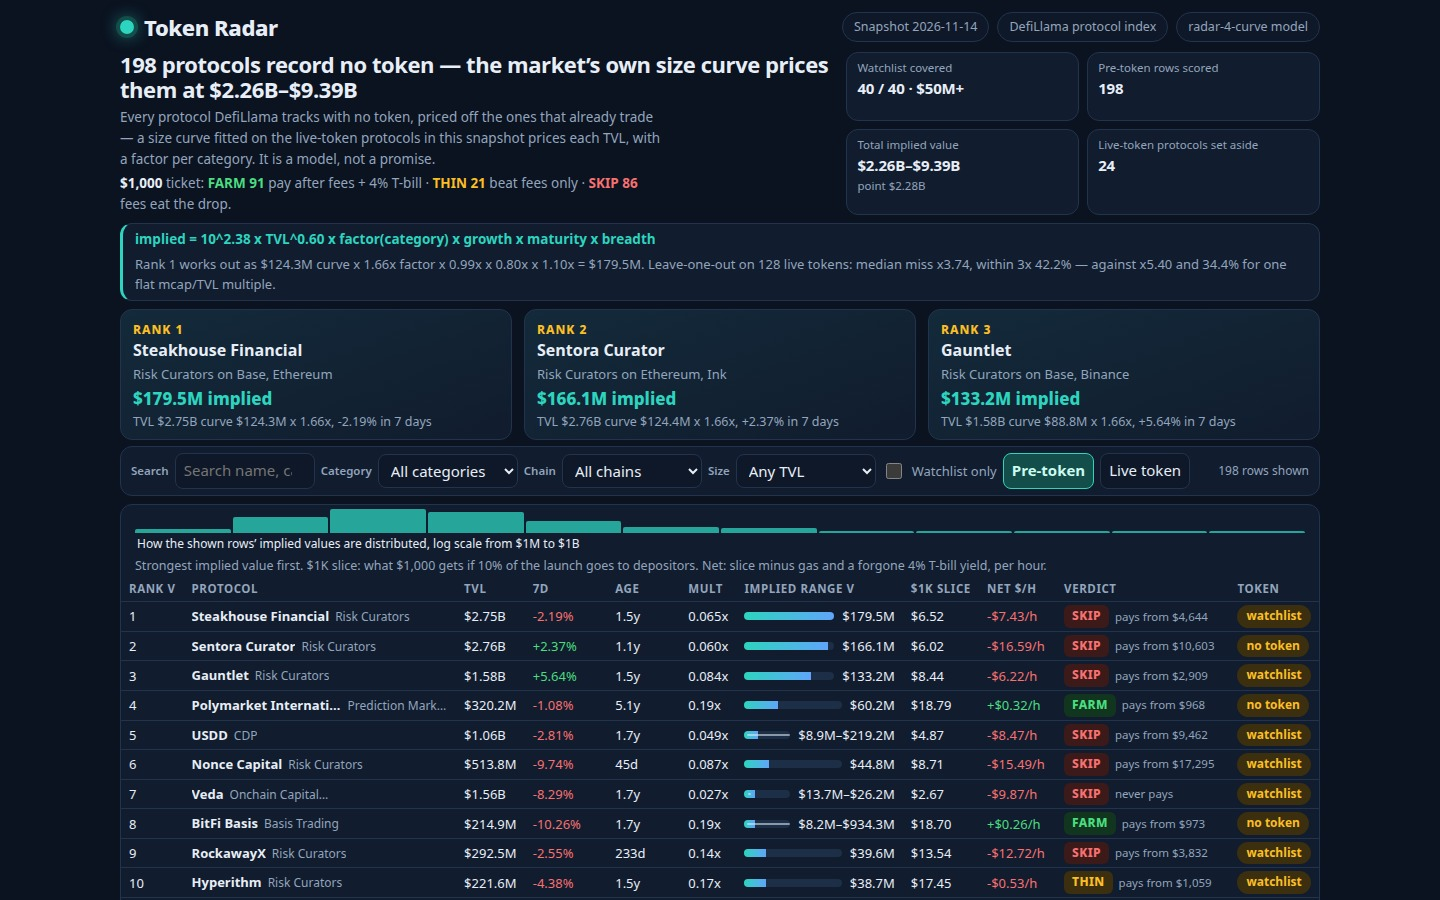
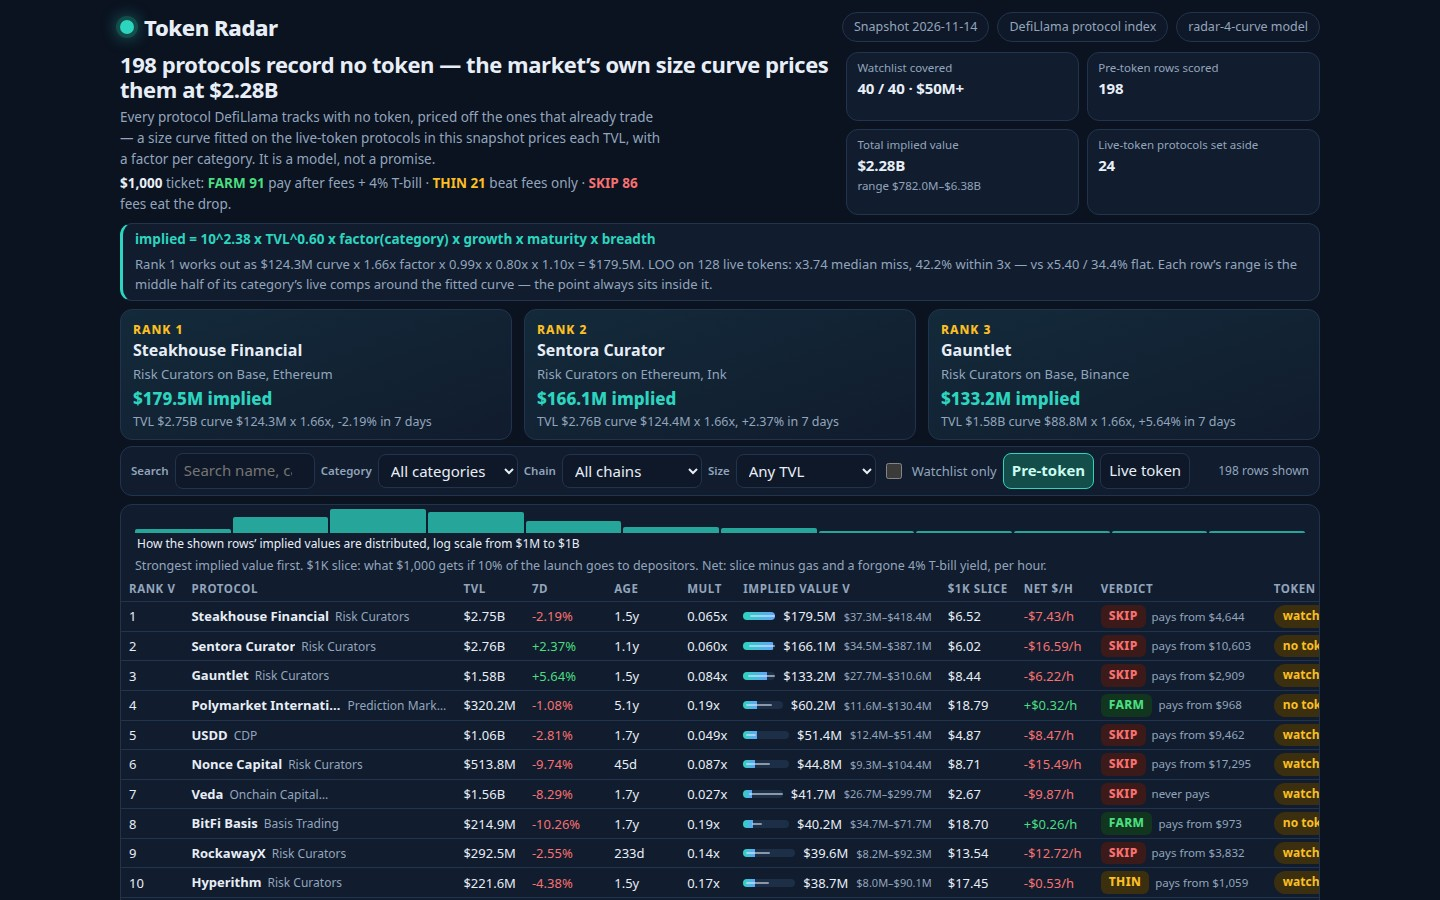
Slot 4 fix (red team REVISION REQUIRED): rebuild band as P25-P75 of category residuals off the fitted curve
- Band is now the model's own uncertainty: low/high = curve(TVL) x 10^P25/P75 x multipliers, expanded to contain the point, so containment holds by construction (was flat min-max over member ratios, a second model: 49% of points fell outside their own band)
- Thin categories use the global residual band, labelled in the detail modal; every row now has a band, including the top-3
- Headline is the point total ($2.28B) again, with the total band ($0.78B-$6.38B) as secondary text
- Board column shows the point as the main number with the band as a bar + small range text (was tooltip-only point)
- Formula bar defines the band in one line; false fmtRange comment fixed (rows are priced by the fitted curve, not the global median)
- No curve/point change: board.json sha256 unchanged 45b700ad...

diff --git a/dashboard/app.js b/dashboard/app.js
@@ -31,10 +31,11 @@
   // Implied value per dollar of TVL, computed live from the row: three
   // decimals below 0.1x so 0.065x reads as 0.065x, not 0.07x.
   function fmtRatio(n) { if (!isFinite(n)) return 'n/a'; return (n < 0.1 ? n.toFixed(3) : (Math.round(n * 100) / 100).toFixed(2)) + 'x'; }
-  // A row's implied range as one line, or its point alone when the
-  // category was too thin to set a range (fallback rows carry no
-  // low/high — the model prices them by the global median, so there is
-  // no range to show).
+  // A row's implied range as one line: the middle half of its
+  // category's live comps around the fitted curve. A category too thin
+  // to set its own band uses the whole market's spread, so every row
+  // has a range; the point alone is only a defensive fallback for
+  // data written before bands existed.
   function hasRange(r) {
     return r.implied_low_usd !== null && r.implied_low_usd !== undefined && r.implied_high_usd !== null && r.implied_high_usd !== undefined;
   }
@@ -301,14 +302,14 @@
     var tr = totalRange();
     return el('section', { class: 'lede' },
       el('div', null,
-        el('h1', { text: DATA.board_size + ' protocols record no token — the market\u2019s own size curve prices them at ' + fmtUsd(tr.low) + '–' + fmtUsd(tr.high) }),
+        el('h1', { text: DATA.board_size + ' protocols record no token — the market\u2019s own size curve prices them at ' + fmtUsd(DATA.total_implied_usd) }),
         el('p', { html: 'Every protocol DefiLlama tracks with no token, priced off the ones that already trade — a size curve fitted on the live-token protocols in this snapshot prices each TVL, with a factor per category. It is a model, not a promise.' }),
         el('p', { class: 'verdict-line', html: '<b>$1,000</b> ticket: <b class="farm">FARM ' + vc.farm + '</b> pay after fees + 4% T-bill · <b class="thin">THIN ' + vc.thin + '</b> beat fees only · <b class="skipv">SKIP ' + vc.skip + '</b> fees eat the drop.' })
       ),
       el('div', { class: 'facts' },
         el('div', { class: 'fact' }, el('span', { text: 'Watchlist covered' }), el('b', { text: DATA.watchlist_size + ' / ' + DATA.watchlist_size + ' · $' + Math.round(DATA.floor_usd / 1e6) + 'M+' })),
         el('div', { class: 'fact' }, el('span', { text: 'Pre-token rows scored' }), el('b', { text: String(DATA.board_size) })),
-        el('div', { class: 'fact' }, el('span', { text: 'Total implied value' }), el('b', { text: fmtUsd(tr.low) + '–' + fmtUsd(tr.high) }), el('span', { text: 'point ' + fmtUsd(DATA.total_implied_usd) })),
+        el('div', { class: 'fact' }, el('span', { text: 'Total implied value' }), el('b', { text: fmtUsd(DATA.total_implied_usd) }), el('span', { text: 'range ' + fmtUsd(tr.low) + '–' + fmtUsd(tr.high) })),
         el('div', { class: 'fact' }, el('span', { text: 'Live-token protocols set aside' }), el('b', { text: String(DATA.live_size) }))
       )
     );
@@ -325,13 +326,14 @@
       ? 'Rank 1 works out as ' + fmtUsd(top.curve_usd) + ' curve x ' + fmtMult(top.category_factor) + ' factor x ' + fmtMult(top.growth_multiplier) + ' x ' + fmtMult(top.maturity_multiplier) + ' x ' + fmtMult(top.breadth_multiplier) + ' = ' + fmtUsd(top.implied_value_usd) + '.'
       : '';
     var check = v
-      ? 'Leave-one-out on ' + v.fitted.n + ' live tokens: median miss x' + v.fitted.median_miss.toFixed(2) + ', within 3x ' + Math.round(v.fitted.within_3x * 1000) / 10 + '% — against x' + v.flat.median_miss.toFixed(2) + ' and ' + Math.round(v.flat.within_3x * 1000) / 10 + '% for one flat mcap/TVL multiple.'
+      ? 'LOO on ' + v.fitted.n + ' live tokens: x' + v.fitted.median_miss.toFixed(2) + ' median miss, ' + Math.round(v.fitted.within_3x * 1000) / 10 + '% within 3x — vs x' + v.flat.median_miss.toFixed(2) + ' / ' + Math.round(v.flat.within_3x * 1000) / 10 + '% flat.'
       : '';
+    var bandDef = 'Each row\u2019s range is the middle half of its category\u2019s live comps around the fitted curve — the point always sits inside it.';
     return el('section', { class: 'formula-bar', 'aria-label': 'How implied value is computed' },
       el('div', { class: 'formula-line' },
         el('b', { text: 'implied = 10^' + sc.intercept.toFixed(2) + ' x TVL^' + sc.slope.toFixed(2) + ' x factor(category) x growth x maturity x breadth' })
       ),
-      el('p', { text: example + ' ' + check })
+      el('p', { text: example + ' ' + check + ' ' + bandDef })
     );
   }
 
@@ -343,7 +345,7 @@
           el('span', { class: 'rank', text: 'Rank ' + r.rank }),
           el('h3', { text: r.name }),
           el('span', { class: 'sub', text: (r.category || 'Other') + ' on ' + (r.chains && r.chains.length ? r.chains.slice(0, 2).join(', ') : 'an unnamed chain') }),
-          el('div', { class: 'val', text: fmtRange(r) + ' implied' }),
+          el('div', { class: 'val', text: fmtUsd(r.implied_value_usd) + ' implied' }),
           el('span', { class: 'why', text: 'TVL ' + fmtUsd(r.tvl_usd) + ' curve ' + fmtUsd(r.curve_usd) + ' x ' + fmtMult(r.category_factor) + ', ' + fmtPct(r.change_7d) + ' in 7 days' })
         );
       })
@@ -466,7 +468,8 @@
         el('td', { class: 'num', title: 'Flat baseline ' + fmtMult(r.comp_multiple) + (r.comp_used_global ? ' (global median)' : ' (category median)') }, el('span', { text: fmtRatio(r.tvl_usd ? r.implied_value_usd / r.tvl_usd : 0) })),
         el('td', null, el('div', { class: 'implied' },
           el('div', { class: 'bar', 'aria-hidden': 'true' }, el('i', { style: 'width:' + Math.max(3, Math.round((r.implied_value_usd / max) * 100)) + '%' }), range),
-          el('span', { class: 'num rng-val', title: hasRange(r) ? 'Point ' + fmtUsd(r.implied_value_usd) : 'Point value — no range: category too thin', text: fmtRange(r) })
+          el('span', { class: 'num', text: fmtUsd(r.implied_value_usd) }),
+          el('span', { class: 'rng-sub', title: 'Range: the middle half of the category\u2019s live comps around the fitted curve', text: fmtRange(r) })
         )),
         el('td', { class: 'num', text: fmtMoney(t.slice_usd) }),
         el('td', { class: 'num ' + (t.net_per_hour_usd >= 0 ? 'pos' : 'neg'), text: netText }),
@@ -487,7 +490,7 @@
             sortHeader('growth', '7d'),
             sortHeader('age', 'Age'),
             el('th', { scope: 'col', text: 'Mult' }),
-            sortHeader('implied', 'Implied range'),
+            sortHeader('implied', 'Implied value'),
             sortHeader('slice', '$1K slice'),
             sortHeader('net', 'Net $/h'),
             el('th', { scope: 'col', text: 'Verdict' }),
@@ -532,7 +535,7 @@
       el('div', { class: 'formula' },
         'implied = round( 10^' + sc.intercept.toFixed(4) + ' x tvl_usd^' + sc.slope.toFixed(4) + ' x factor(category) x (1 + clamp(change_7d, ' + m.growth_floor + ', ' + m.growth_cap + ') / 100 x ' + m.growth_weight + ') x (' + m.maturity_floor + ' + min(age_days, ' + m.maturity_days + ') / ' + m.maturity_days + ' x ' + m.maturity_range + ') x breadth )'
       ),
-      el('p', { class: 'sub', text: 'The size curve is fitted on the ' + sc.live_count + ' live-token protocols in this snapshot by ordinary least squares on log market cap against log TVL (ratios winsorised to 0.01–5). factor(category) is the category\'s median residual off the curve, shrunk toward 1 by n/(n+3) when the category has few live comps; a category with no live-token protocol is priced by the curve alone. Age is the time since the protocol was first listed, the best record of how long it has run with no token; an unlisted age uses ' + m.unknown_age_days + ' days. Breadth adds 2% per extra chain, at most 10%. The flat category median (' + fmtMult(DATA.global_comp) + ' global) is the baseline the curve beat, not the price: leave-one-out on the same ' + v.fitted.n + ' live tokens gives the curve a median miss of x' + v.fitted.median_miss.toFixed(2) + ' with ' + Math.round(v.fitted.within_3x * 1000) / 10 + '% within 3x, against x' + v.flat.median_miss.toFixed(2) + ' and ' + Math.round(v.flat.within_3x * 1000) / 10 + '% for the flat multiple.' })
+      el('p', { class: 'sub', text: 'The size curve is fitted on the ' + sc.live_count + ' live-token protocols in this snapshot by ordinary least squares on log market cap against log TVL (ratios winsorised to 0.01–5). factor(category) is the category\'s median residual off the curve, shrunk toward 1 by n/(n+3) when the category has few live comps; a category with no live-token protocol is priced by the curve alone. Each row also carries a range: the middle half of its category\'s live comps around the fitted curve (25th–75th percentile of their residuals), expanded to contain the point; a category too thin to set its own band uses the whole market\'s spread. Age is the time since the protocol was first listed, the best record of how long it has run with no token; an unlisted age uses ' + m.unknown_age_days + ' days. Breadth adds 2% per extra chain, at most 10%. The flat category median (' + fmtMult(DATA.global_comp) + ' global) is the baseline the curve beat, not the price: leave-one-out on the same ' + v.fitted.n + ' live tokens gives the curve a median miss of x' + v.fitted.median_miss.toFixed(2) + ' with ' + Math.round(v.fitted.within_3x * 1000) / 10 + '% within 3x, against x' + v.flat.median_miss.toFixed(2) + ' and ' + Math.round(v.flat.within_3x * 1000) / 10 + '% for the flat multiple.' })
     );
   }
 
@@ -591,8 +594,8 @@
       ),
       el('button', { class: 'close', type: 'button', 'aria-label': 'Close details', text: 'Close', onclick: function () { dialog.close(); } })
     ));
-    var rangeText = (row.implied_low_usd !== null && row.implied_low_usd !== undefined && row.implied_high_usd !== null && row.implied_high_usd !== undefined)
-      ? ' Range across the category\u2019s live comps: ' + fmtUsd(row.implied_low_usd) + ' \u2013 ' + fmtUsd(row.implied_high_usd) + '.'
+    var rangeText = hasRange(row)
+      ? ' Range: the middle half of the category\u2019s live comps around the fitted curve, ' + fmtUsd(row.implied_low_usd) + ' \u2013 ' + fmtUsd(row.implied_high_usd) + '.' + (row.band_used_global ? ' Too few comps in this category, so the band uses the whole market\u2019s spread.' : '')
       : '';
     dialog.appendChild(el('section', { class: 'detail-section' },
       el('h3', { text: 'Implied value' }),
@@ -606,8 +609,8 @@
         el('div', null, el('span', { text: 'Maturity multiplier' }), el('b', { class: 'num', text: fmtMult(row.maturity_multiplier) })),
         el('div', null, el('span', { text: 'Breadth multiplier' }), el('b', { class: 'num', text: fmtMult(row.breadth_multiplier) })),
         el('div', { class: 'total' }, el('span', { text: 'Implied value' }), el('div', null,
-          el('b', { class: 'num', text: fmtRange(row) }),
-          hasRange(row) ? el('span', { class: 'pt-sub', text: 'point ' + fmtUsd(row.implied_value_usd) }) : null
+          el('b', { class: 'num', text: fmtUsd(row.implied_value_usd) }),
+          el('span', { class: 'pt-sub', text: 'range ' + fmtRange(row) })
         ))
       ),
       el('p', { class: 'sub', text: 'Seven-day growth ' + fmtPct(row.change_7d) + '; age with no token ' + fmtAge(row.age_days) + '.' + rangeText }),

diff --git a/lib/model.ts b/lib/model.ts
@@ -69,7 +69,9 @@
 // that adjusted it, and the range the row spans across the middle half
 // of its category's live comps — the 25th to 75th percentile of their
 // residuals off the curve, so the point always sits inside its own
-// range. Categories with fewer than 3 live comps get a factor shrunk
+// range. Categories too thin to set their own band use the whole
+// market's spread, so every row carries a range, and the dashboard says
+// so on the row. Categories with fewer than 3 live comps get a factor shrunk
 // toward 1.00x, and the dashboard says so on the row, instead of
 // printing a bare multiple. The flat category median is kept beside the
 // curve as the baseline the curve beat, and the comps table still names
@@ -224,9 +226,11 @@ export interface RadarRow {
   listed_at: string | null;
   age_days: number | null;
   implied_value_usd: number;
-  /** The implied value at the lowest and highest live-comp ratios in the category, or null when the category median was not used. */
+  /** The row's range: the middle half of its category's live comps around the fitted curve (25th–75th percentile of their residuals), expanded to contain the point — always set, every row carries a band. */
   implied_low_usd: number | null;
   implied_high_usd: number | null;
+  /** True when the category was too thin to set its own band, so the band uses the whole market's spread. */
+  band_used_global: boolean;
   comp_multiple: number;
   comp_live_count: number;
   comp_used_global: boolean;
@@ -451,6 +455,10 @@ export interface SizeCurve {
   live_count: number;
   /** Per-category factor, from the live comps' median residual off the curve, shrunk toward 1 when few comps. */
   factors: { category: string; factor: number; live_count: number }[];
+  /** Per-category residual band: the middle half (25th–75th percentile) of the category's live comps' residuals off the curve, in log10. */
+  bands: { category: string; p25: number; p75: number; live_count: number }[];
+  /** The market-wide residual band, for categories too thin to set their own. */
+  globalBand: { p25: number; p75: number; live_count: number };
   validation: { fitted: LooScore; flat: LooScore };
 }
 
@@ -508,6 +516,38 @@ function categoryFactors(
     out.set(category, { factor: 10 ** (median(residuals) * shrink), live_count: n });
   }
   return out;
+}
+
+/** A quantile of a sorted array by linear interpolation (type-7): q in [0, 1]. */
+function quantile(sorted: number[], q: number): number {
+  const n = sorted.length;
+  if (n === 0) return NaN;
+  if (n === 1) return sorted[0]!;
+  const pos = (n - 1) * q;
+  const lo = Math.floor(pos);
+  const hi = Math.ceil(pos);
+  if (lo === hi) return sorted[lo]!;
+  return sorted[lo]! + (sorted[hi]! - sorted[lo]!) * (pos - lo);
+}
+
+/** Every live token's residual off the fitted line, per category and pooled across the market — the same winsorised residuals categoryFactors reads. */
+function residualLists(
+  rows: SnapshotProtocol[],
+  intercept: number,
+  slope: number,
+  model: ModelConstants,
+): { byCategory: Map<string, number[]>; global: number[] } {
+  const byCategory = new Map<string, number[]>();
+  const global: number[] = [];
+  for (const p of rows) {
+    const r = fitY(p, model) - (intercept + slope * Math.log10(p.tvl_usd));
+    const key = p.category ?? 'Other';
+    const list = byCategory.get(key) ?? [];
+    list.push(r);
+    byCategory.set(key, list);
+    global.push(r);
+  }
+  return { byCategory, global };
 }
 
 /** The three multipliers every row gets from its own record: 7-day growth, seasoning, breadth. */
@@ -569,7 +609,20 @@ export function fitSizeCurve(snapshot: Snapshot, model: ModelConstants = MODEL):
   const factors = [...categoryFactors(rows, intercept, slope, model).entries()]
     .sort((a, b) => (a[0] < b[0] ? -1 : a[0] > b[0] ? 1 : 0))
     .map(([category, v]) => ({ category, factor: v.factor, live_count: v.live_count }));
-  return { intercept, slope, live_count: rows.length, factors, validation: leaveOneOut(snapshot, rows, model) };
+  // The residual bands: each category's middle half around the fitted
+  // curve, and the market-wide middle half for categories too thin to
+  // set their own. Same residuals the factors read, so the band and the
+  // point are one model, not two.
+  const { byCategory, global: globalResiduals } = residualLists(rows, intercept, slope, model);
+  const globalSorted = [...globalResiduals].sort((a, b) => a - b);
+  const globalBand = { p25: quantile(globalSorted, 0.25), p75: quantile(globalSorted, 0.75), live_count: globalResiduals.length };
+  const bands = [...byCategory.entries()]
+    .sort((a, b) => (a[0] < b[0] ? -1 : a[0] > b[0] ? 1 : 0))
+    .map(([category, list]) => {
+      const s = [...list].sort((a, b) => a - b);
+      return { category, p25: quantile(s, 0.25), p75: quantile(s, 0.75), live_count: list.length };
+    });
+  return { intercept, slope, live_count: rows.length, factors, bands, globalBand, validation: leaveOneOut(snapshot, rows, model) };
 }
 
 /** The fitted curve's value for one TVL, before the category factor and the multipliers. */
@@ -583,6 +636,20 @@ function factorFor(category: string | null, curve: SizeCurve): { factor: number;
   const row = curve.factors.find((f) => f.category === category);
   if (row === undefined) return { factor: 1, liveCount: 0 };
   return { factor: row.factor, liveCount: row.live_count };
+}
+
+/** The residual band for a category: its own middle half when it has enough live comps, else the market-wide spread. Degenerate (no live comps anywhere) returns a zero-width band, so the caller still expands it to the point. */
+function bandFor(
+  category: string | null,
+  fit: SizeCurve,
+  minLive: number,
+): { p25: number; p75: number; usedGlobal: boolean } {
+  if (category !== null) {
+    const b = fit.bands.find((x) => x.category === category);
+    if (b !== undefined && b.live_count >= minLive) return { p25: b.p25, p75: b.p75, usedGlobal: false };
+  }
+  if (!Number.isFinite(fit.globalBand.p25) || !Number.isFinite(fit.globalBand.p75)) return { p25: 0, p75: 0, usedGlobal: true };
+  return { p25: fit.globalBand.p25, p75: fit.globalBand.p75, usedGlobal: true };
 }
 
 /** The multipliers and the implied value one protocol gets under the fitted curve and the comps table. */
@@ -873,21 +940,30 @@ export function liveRows(snapshot: Snapshot): LiveRow[] {
 }
 
 /** A board row's compact form for data.js, with the comp's provenance and the farm summary. */
-export function radarRow(row: BoardRow, watch: Set<string>, comps: { global: number; comps: CategoryComp[] }): RadarRow {
+export function radarRow(
+  row: BoardRow,
+  watch: Set<string>,
+  comps: { global: number; comps: CategoryComp[] },
+  fit: SizeCurve,
+  model: ModelConstants = MODEL,
+): RadarRow {
   const table = new Map(comps.comps.map((c) => [c.category, c]));
   const compRow = row.category === null ? undefined : table.get(row.category);
-  // The range the row's implied value spans across its category's live
-  // comps: the same arithmetic at the lowest and highest member ratios.
-  // Only when the category median priced the row — a fallback row's single
-  // live comp is reference, not a range, so it shows the point alone.
-  let low: number | null = null;
-  let high: number | null = null;
-  if (compRow !== undefined && !compRow.used_global && compRow.members.length > 0) {
-    const ratios = compRow.members.map((m) => m.ratio);
-    const base = Math.max(1, row.tvl_usd) * row.model.growth_multiplier * row.model.maturity_multiplier * row.model.breadth_multiplier;
-    low = Math.max(1, Math.round(base * Math.min(...ratios)));
-    high = Math.max(1, Math.round(base * Math.max(...ratios)));
-  }
+  // The range the row spans: the middle half of its category's live
+  // comps around the fitted curve (25th–75th percentile of their
+  // residuals off the curve), so the band is the model's own
+  // uncertainty — the same curve and multipliers as the point, not a
+  // second model. Categories too thin to set their own band use the
+  // whole market's spread, so every row has a range. The band is then
+  // expanded to contain the point, so containment holds by
+  // construction: the point always sits inside its own range.
+  const band = bandFor(row.category, fit, model.comp_min_live);
+  const mults = row.model.growth_multiplier * row.model.maturity_multiplier * row.model.breadth_multiplier;
+  const base = Math.max(1, row.model.curve_usd);
+  let low = Math.max(1, Math.round(base * 10 ** band.p25 * mults));
+  let high = Math.max(1, Math.round(base * 10 ** band.p75 * mults));
+  low = Math.min(low, row.implied_value_usd);
+  high = Math.max(high, row.implied_value_usd);
   return {
     rank: row.rank,
     slug: row.slug,
@@ -902,6 +978,7 @@ export function radarRow(row: BoardRow, watch: Set<string>, comps: { global: num
     implied_value_usd: row.implied_value_usd,
     implied_low_usd: low,
     implied_high_usd: high,
+    band_used_global: band.usedGlobal,
     comp_multiple: row.model.comp_multiple,
     comp_live_count: compRow?.live_count ?? 0,
     comp_used_global: compRow?.used_global ?? true,
@@ -962,7 +1039,7 @@ export function buildRadar(snapshot: Snapshot, model: ModelConstants = MODEL): {
     size_curve: { intercept: fit.intercept, slope: fit.slope, live_count: fit.live_count },
     validation: fit.validation,
     comps: compsWithFactors.comps,
-    rows: board.map((r) => radarRow(r, watch, compsWithFactors)),
+    rows: board.map((r) => radarRow(r, watch, compsWithFactors, fit, model)),
     live,
   };
   return { board, radar };

diff --git a/dashboard/app.css b/dashboard/app.css
@@ -67,8 +67,8 @@ td.num{font-variant-numeric:tabular-nums;white-space:nowrap}
 .name .sub{color:var(--muted);font-size:12px;max-width:100px;overflow:hidden;text-overflow:ellipsis}
 .global{font-size:11px;color:var(--faint)}
 .implied{display:flex;flex-direction:row;align-items:center;gap:8px;min-width:150px}
-.rng-val{white-space:nowrap}
-.bar{position:relative;flex:1;height:8px;background:#1c2f47;border-radius:99px;overflow:hidden}
+.rng-sub{color:var(--muted);font-size:11px;white-space:nowrap}
+.bar{position:relative;flex:1 1 32px;min-width:32px;height:8px;background:#1c2f47;border-radius:99px;overflow:hidden}
 .bar i{display:block;height:100%;background:linear-gradient(90deg,var(--teal),var(--blue))}
 .bar .rng{position:absolute;top:3px;height:2px;background:var(--ink);opacity:.55;border-radius:2px}
 .status{display:inline-block;border-radius:99px;padding:2px 9px;font-size:12px;font-weight:700;background:#3b2f10;color:var(--amber);white-space:nowrap}
@@ -106,7 +106,7 @@ dialog.detail::backdrop{background:rgba(2,6,16,.72)}
 .detail-head h2{margin:0 0 2px;font-size:18px}
 .detail-head .sub{color:var(--muted);margin:0}
 .close{background:var(--panel2);border:1px solid var(--line);color:var(--ink);border-radius:8px;padding:7px 12px;font:inherit;cursor:pointer;height:fit-content}
-.detail-section{padding:6px 20px;border-top:1px solid var(--line);margin-top:6px}
+.detail-section{padding:4px 20px;border-top:1px solid var(--line);margin-top:2px}
 .detail-section h3{margin:0 0 3px;font-size:14px}
 .detail-section .sub{color:var(--muted);font-size:13px;margin:4px 0}
 .equation{display:grid;grid-template-columns:1fr 1fr;gap:2px 28px}
